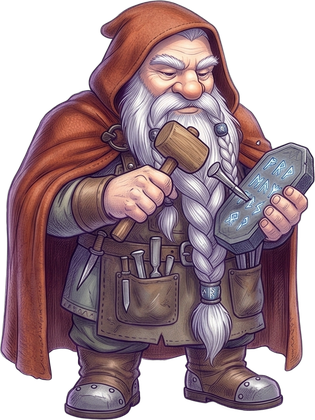
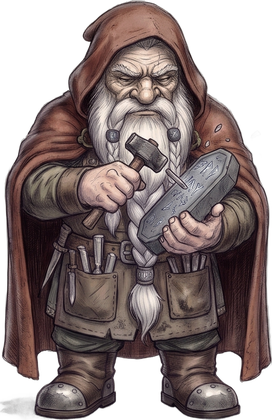
Build 251: Мастер Гранит redrawn in the grim storybook style (her «выглядят иишно и слишком по-доброму», picked style 2 of the test sheet)
Rough ink and pencil, dull earthy colours, weathered stern face; poses explain / carve / read / arms crossed, a real left-right step cycle (SYNTX 3 sheets, 6 tokens). STAFF_V gives redrawn sprites a new cache version.

diff --git a/js/game.js b/js/game.js
@@ -2,13 +2,13 @@
 import {
   OFFLINE_CAP_SEC, MAX_DESKS, MAX_ITEM_LEVEL, MAX_TEACHER_LEVEL, MAX_TIME_LEVEL,
   CLASSES, SPECIES, NAMES, MISSIONS, WORLDS, WORLD, META,
-} from './data.js?v=250';
-import { EMOJI_RE, emojiImage, preloadEmoji, watchEmoji, emojiHtml } from './emoji.js?v=250';
+} from './data.js?v=251';
+import { EMOJI_RE, emojiImage, preloadEmoji, watchEmoji, emojiHtml } from './emoji.js?v=251';
 
 const SAVE_KEY = WORLD === 1 ? 'magicschool.save.v2' : 'magicschool.save.v2.w' + WORLD;   // every world keeps its own save
 const saveKeyOf = (w) => (w === 1 ? 'magicschool.save.v2' : 'magicschool.save.v2.w' + w);
 const VERSION = '0.9';
-const BUILD = 250;   // keep equal to the ?v= number in index.html
+const BUILD = 251;   // keep equal to the ?v= number in index.html
 const $ = (s, r = document) => r.querySelector(s);
 const rnd = (a) => a[Math.floor(Math.random() * a.length)];
 
@@ -1636,17 +1636,18 @@ const ZMIN = 0.9, ZMAX = 3.4;
 const sprites = {};
 // professors drawn one by one, each approved by Maria (class id -> file in assets/staff)
 const STAFF_ART = { herbs: 'moss', potions: 'bubble', stars: 'lun', charms: 'spark', flight: 'breeze', elements: 'storm', final: 'owl' };
+const STAFF_V = { granite: 2 };   // per-name cache version of redrawn staff sprites (world-2 grim style, her pick 2026-11-23)
 const STAFF_ART_W2 = { runes: 'granite', mine: 'burav', forge: 'hammer', gems: 'iskra' };   // world 2 teachers (her pick 2026-11-22: old dwarf rune master «Мастер Гранит»)
 const staffOf = (cid) => (WORLD === 1 ? STAFF_ART : WORLD === 2 ? STAFF_ART_W2 : {})[cid];   // per world: world-2 'final' must not take the owl
 const STAFF_H = { iskra: 50, hammer: 56, burav: 54, granite: 54, moss: 58, bubble: 54, lun: 68, spark: 62, breeze: 56, storm: 68, owl: 60 };   // teachers clearly taller than students (30) — her ruling 2026-11-21
 // teachers' pose sheets (her ask 2026-11-22: animations for every teacher): walk while strolling, two kinds of stops,
 // proud for a moment right after a student of the class passes; art one teacher at a time (art/staff/<name>_poses.jpg)
-const TEACHER_POSES = { iskra: ['explain', 'loupe', 'polish'], hammer: ['explain', 'strike', 'inspect'], burav: ['explain', 'dig', 'wipe'], granite: ['explain', 'carve', 'read', 'think', 'lantern', 'warm'], moss: ['explain', 'water', 'sniff', 'read'], bubble: ['explain', 'stir', 'pour', 'sniff'], lun: ['map', 'spyglass', 'book', 'sphere'], spark: ['explain', 'star', 'curtsy', 'polish', 'book'], breeze: ['explain', 'map', 'wind', 'goggles', 'owl'], storm: ['explain', 'fire', 'water', 'leaves', 'breeze'], owl: ['announce', 'write', 'hourglass', 'glasses', 'seal'] };
+const TEACHER_POSES = { iskra: ['explain', 'loupe', 'polish'], hammer: ['explain', 'strike', 'inspect'], burav: ['explain', 'dig', 'wipe'], granite: ['explain', 'carve', 'read'], moss: ['explain', 'water', 'sniff', 'read'], bubble: ['explain', 'stir', 'pour', 'sniff'], lun: ['map', 'spyglass', 'book', 'sphere'], spark: ['explain', 'star', 'curtsy', 'polish', 'book'], breeze: ['explain', 'map', 'wind', 'goggles', 'owl'], storm: ['explain', 'fire', 'water', 'leaves', 'breeze'], owl: ['announce', 'write', 'hourglass', 'glasses', 'seal'] };
 const TEACHER_FLY = { moss: true, bubble: true, lun: true, spark: true, breeze: true, storm: true, owl: true };
 const NO_PROUD = { lun: true };
-const WALK_POSE = { granite: ['step1', 'pass1', 'pass2', 'pass1'], burav: ['step1', 'pass1', 'step2', 'pass2'], hammer: ['step1', 'pass1', 'pass2', 'pass1'], iskra: ['step1', 'pass1', 'pass2', 'pass1'] };   // walking frames cycled every 180 ms (her report: one walking picture looked like hopping on one leg)   // dwarves do not fly: their own walking picture while moving
+const WALK_POSE = { granite: ['step1', 'pass1', 'step2', 'pass2'], burav: ['step1', 'pass1', 'step2', 'pass2'], hammer: ['step1', 'pass1', 'pass2', 'pass1'], iskra: ['step1', 'pass1', 'pass2', 'pass1'] };   // walking frames cycled every 180 ms (her report: one walking picture looked like hopping on one leg)   // dwarves do not fly: their own walking picture while moving
 const FLY_LEFT = { breeze: true };   // flight frames drawn heading LEFT (her report 2026-11-22: «Капитан ветерок летает задом наперед»)   // her choice 2026-11-22: Lun has no joy pose, keeps his stop pose   // two flight frames <name>_fly1/fly2 (her ruling: «Парение не похоже на полет ... позу полета рисовать»)
-for (const [n, l] of Object.entries(TEACHER_POSES)) for (const f of [...l, ...(NO_PROUD[n] ? [] : ['proud']), ...(TEACHER_FLY[n] ? ['fly1', 'fly2'] : []), ...(WALK_POSE[n] || [])]) { const im = new Image(); im.onerror = () => {}; im.src = `assets/staff/${n}_${f}.png?v=1`; sprites[n + '_' + f] = im; }
+for (const [n, l] of Object.entries(TEACHER_POSES)) for (const f of [...l, ...(NO_PROUD[n] ? [] : ['proud']), ...(TEACHER_FLY[n] ? ['fly1', 'fly2'] : []), ...(WALK_POSE[n] || [])]) { const im = new Image(); im.onerror = () => {}; im.src = `assets/staff/${n}_${f}.png?v=${STAFF_V[n] || 1}`; sprites[n + '_' + f] = im; }
 const passAt = {};
 function teacherPose(i, tp) {
   const n = staffOf(CLASSES[i].id), l = n && TEACHER_POSES[n]; if (!l) return null;
@@ -1779,7 +1780,7 @@ function drawSecretary(so) {
 }
 for (const f of STAFF_OTHER) { const im = new Image(); im.src = `assets/staff/${f}.png?v=1`; sprites['staff_' + f] = im; }
 const staffSprite = (f) => WORLD === 1 && STAFF_OTHER.includes(f) && sprites['staff_' + f]?.naturalWidth;
-for (const [k, f] of Object.entries(WORLD === 2 ? STAFF_ART_W2 : STAFF_ART)) { const im = new Image(); im.src = `assets/staff/${f}.png?v=3`; sprites['staff_' + k] = im; }
+for (const [k, f] of Object.entries(WORLD === 2 ? STAFF_ART_W2 : STAFF_ART)) { const im = new Image(); im.src = `assets/staff/${f}.png?v=${STAFF_V[f] ? 10 + STAFF_V[f] : 3}`; sprites['staff_' + k] = im; }
 if (WORLD === 1) for (const sp of SPECIES) for (let e = 0; e < 4; e++) for (const v of ['', '_back']) { const im = new Image(); im.onerror = () => {}; im.src = `assets/creatures/${sp}_m${e}${v}.png?v=1`; sprites[sp + '_m' + e + v] = im; }   // element masters (her «вау», 2026-11-22)
 if (WORLD === 1) for (const sp of SPECIES) for (let t = 1; t < 5; t++) for (const v of ['', '_back']) { const im = new Image(); im.onerror = () => {}; im.src = `assets/creatures/${sp}_t${t}${v}.png?v=1`; sprites[sp + '_t' + t + v] = im; }   // outfit stages (drawn later; missing ones fall back)
 for (const sp of SPECIES) for (const v of ['', '_back']) { const im = new Image(); im.src = `assets/creatures/${sp}${v}.png`; sprites[sp + v] = im; }   // front and back views

diff --git a/index.html b/index.html
@@ -12,7 +12,7 @@
 <link rel="manifest" href="manifest.webmanifest">
 <link rel="apple-touch-icon" href="icons/icon-180.png?v=2">
 <link rel="icon" href="icons/icon-192.png?v=2">
-<link rel="stylesheet" href="style.css?v=250">
+<link rel="stylesheet" href="style.css?v=251">
 <script>/* iOS home-screen app: innerHeight / 100% / 100dvh are short by the status bar, a strip stayed at the bottom (her screenshots, builds 200-203); use the real screen height */
 (function(){function fit(){if(!(navigator.standalone||matchMedia('(display-mode: standalone)').matches))return;var h=Math.max(window.innerHeight,(Math.abs(window.orientation||0)===90?screen.width:screen.height));var r=document.documentElement;r.style.height=h+'px';if(document.body){document.body.style.height=h+'px';document.body.style.bottom='auto';}}fit();addEventListener('DOMContentLoaded',fit);addEventListener('resize',fit);addEventListener('orientationchange',function(){setTimeout(fit,300);});})();</script>
 </head>
@@ -41,6 +41,6 @@ setTimeout(function(){ if (window.__booted) return; var d=document.createElement
   d.querySelector('button').onclick=function(){ location.reload(); }; document.body.appendChild(d); }, 12000);
 if(!CanvasRenderingContext2D.prototype.roundRect){CanvasRenderingContext2D.prototype.roundRect=function(x,y,w,h){this.rect(x,y,w,h);};}
 </script>
-<script type="module" src="js/game.js?v=250"></script>
+<script type="module" src="js/game.js?v=251"></script>
 </body>
 </html>

diff --git a/js/emoji.js b/js/emoji.js
@@ -1,6 +1,6 @@
 // One emoji look on every device: emoji characters are replaced by bundled Twemoji pictures
 // (CC-BY 4.0, https://github.com/jdecked/twemoji), both in the page (DOM) and on the canvas.
-import { EMOJI_FILES } from './emoji-set.js?v=250';
+import { EMOJI_FILES } from './emoji-set.js?v=251';
 
 export const EMOJI_RE = /\p{Extended_Pictographic}(?:|\p{Extended_Pictographic}?|[\u{1F3FB}-\u{1F3FF}])*/gu;
 
